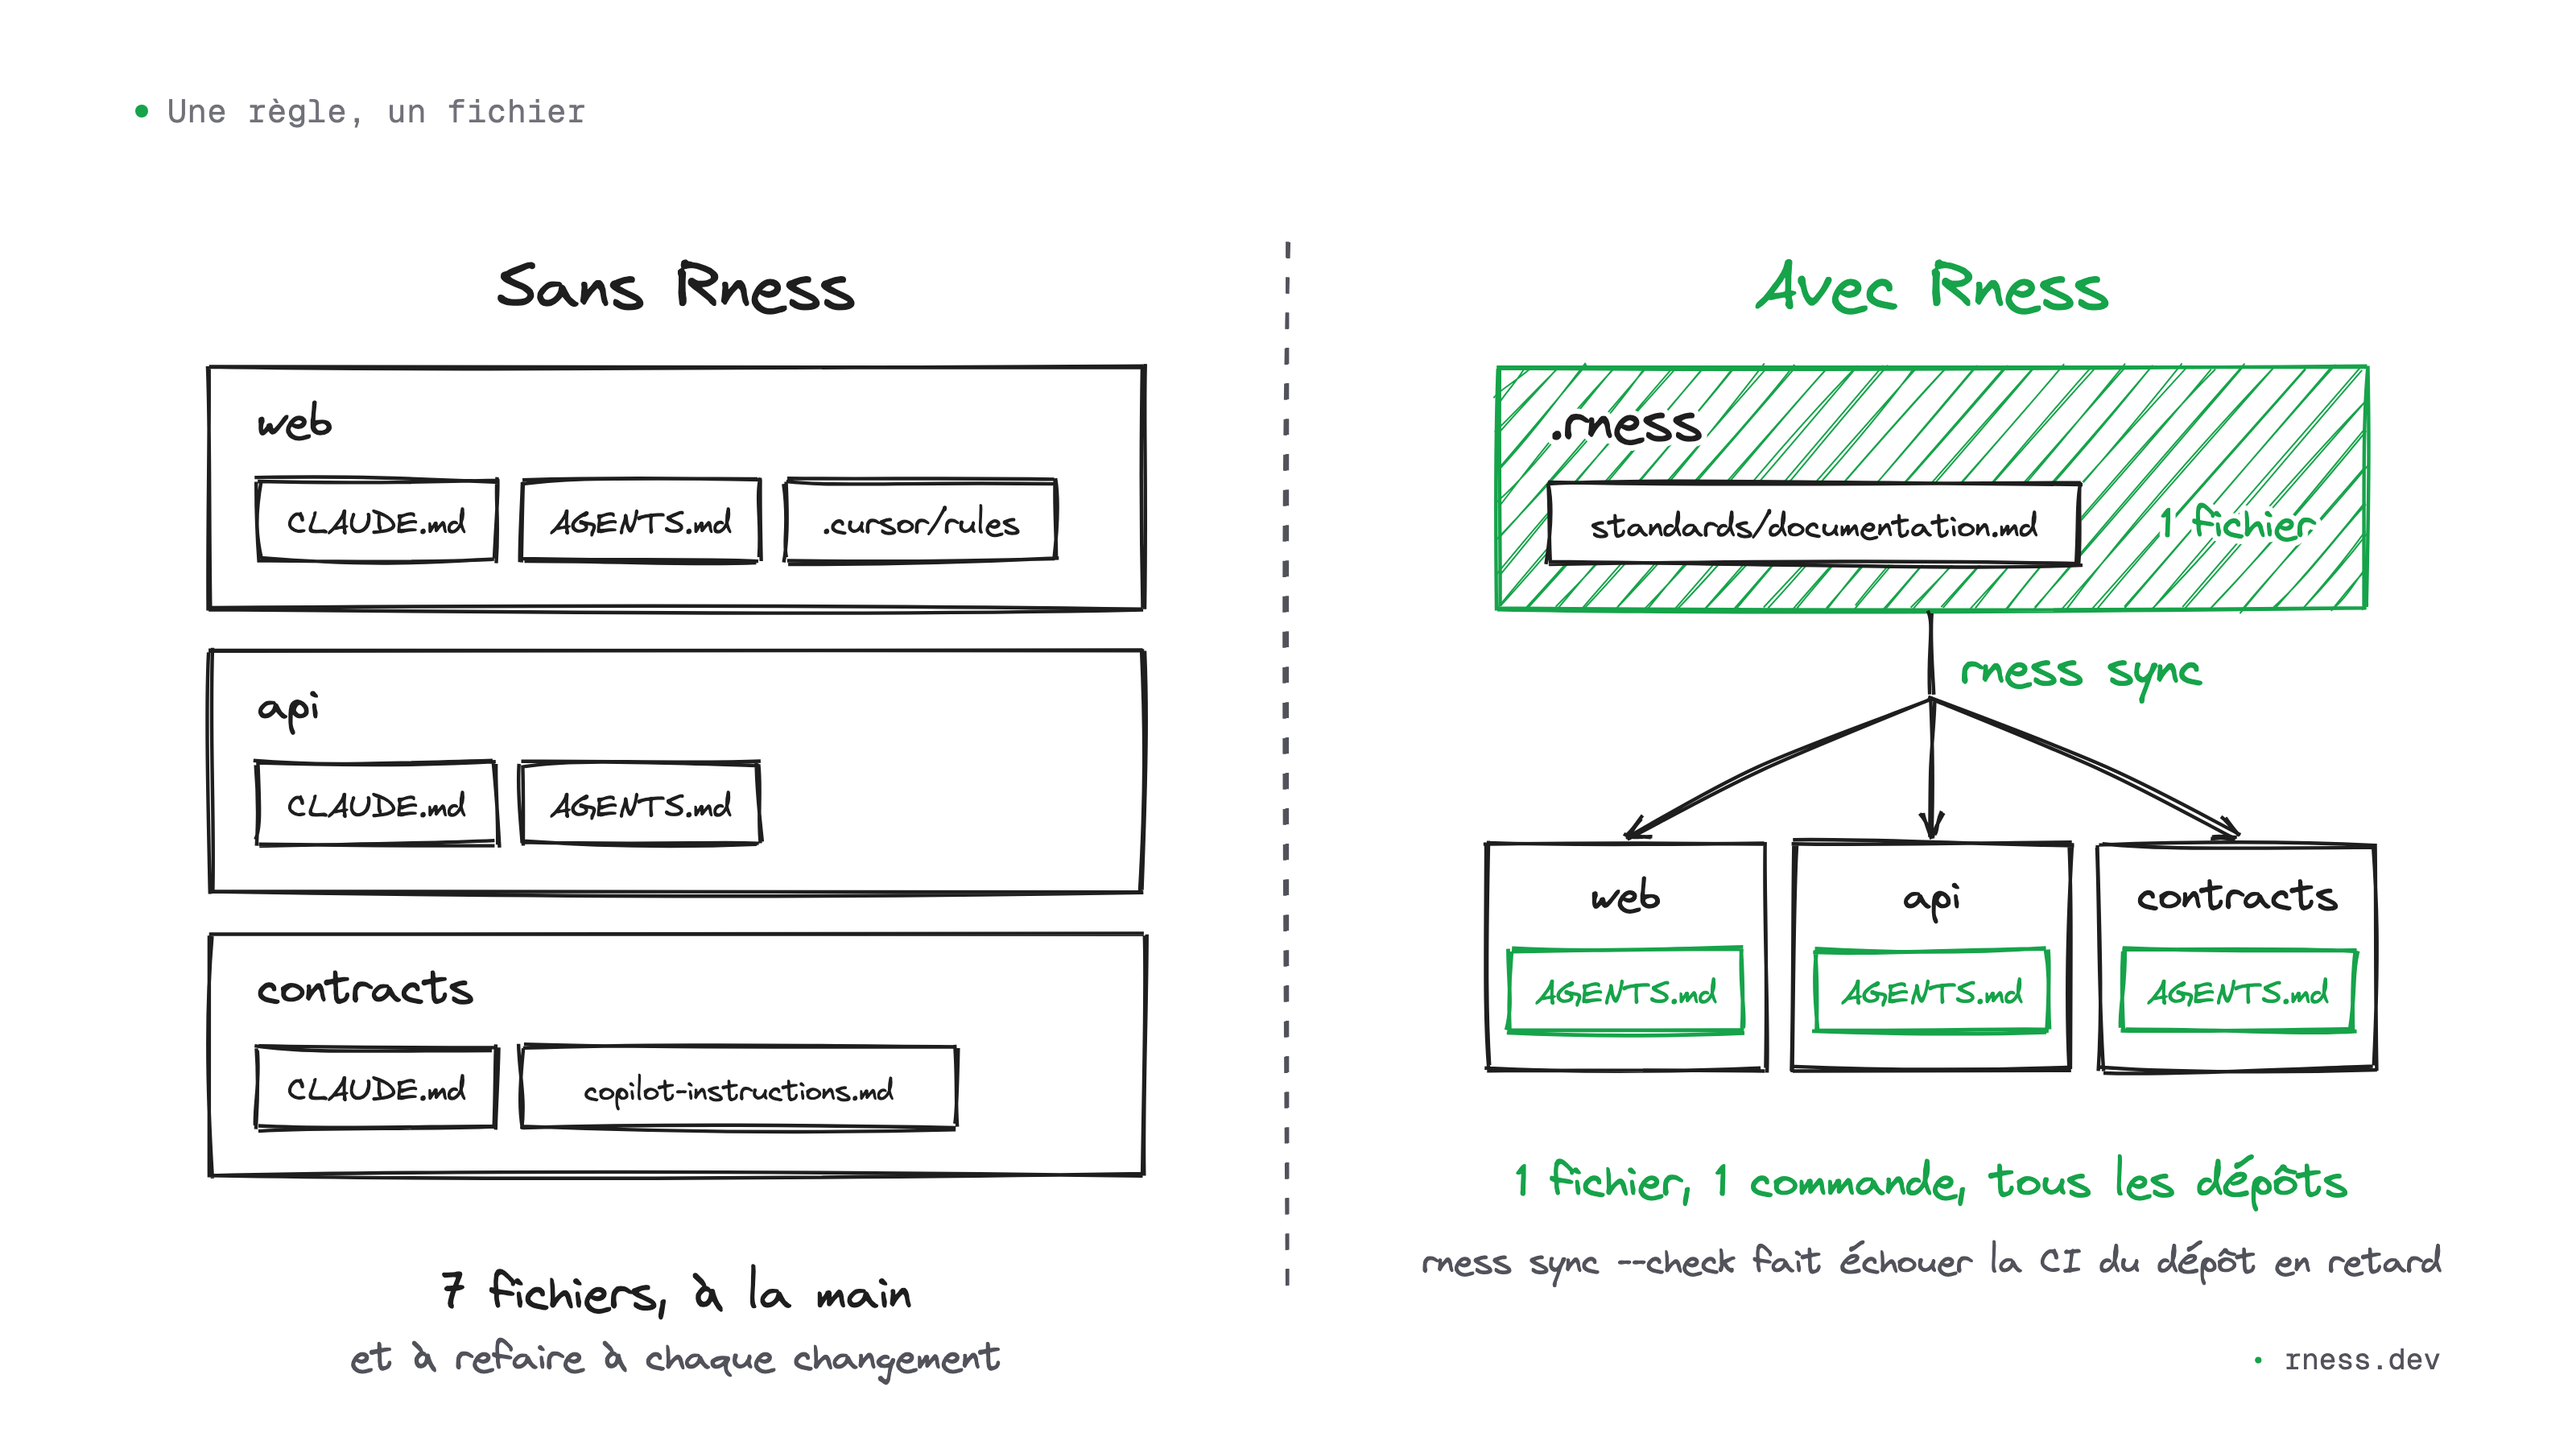
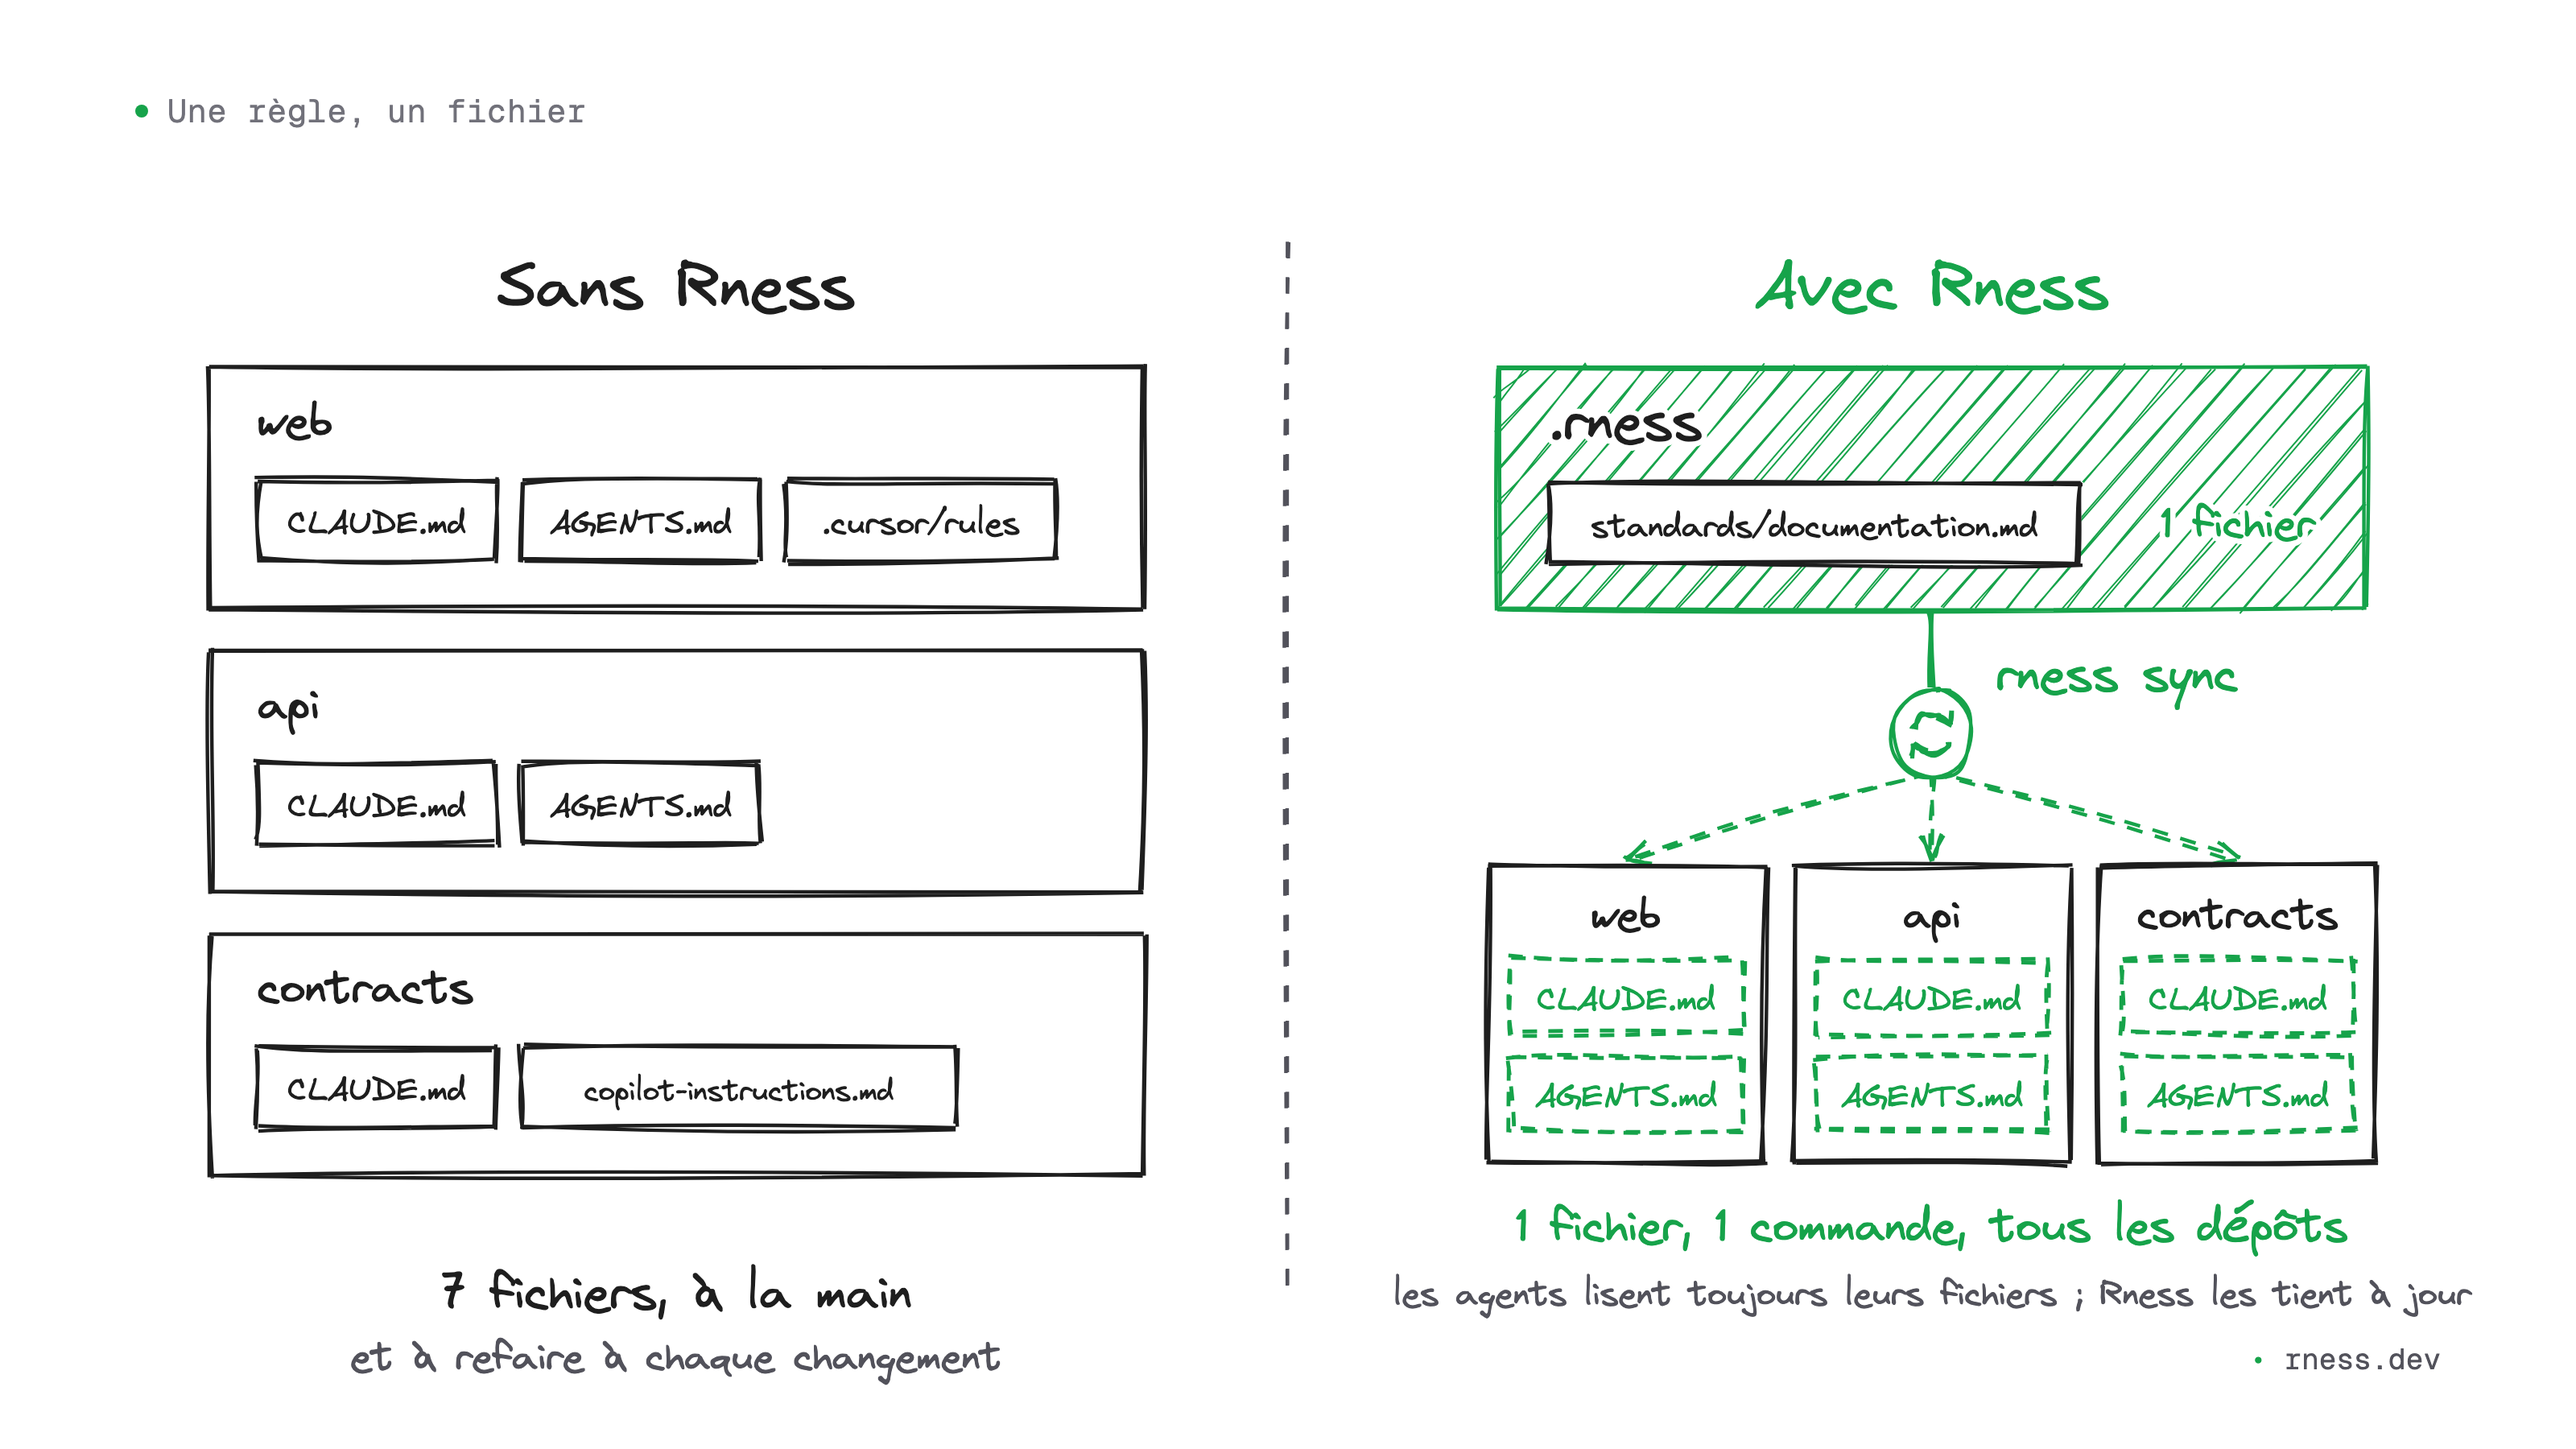
docs: the one-rule figure keeps each agent's files, kept in sync by Rness

Changed region(s): [[0.5312, 0.4356, 0.9688, 0.9022]]

diff --git a/articles/gouverner-les-agents-de-code.md b/articles/gouverner-les-agents-de-code.md
@@ -22,7 +22,7 @@ Dans une équipe qui code avec des agents, un dépôt a un `CLAUDE.md`, un `AGEN
 
 Poser une règle pour tous les agents d'une organisation, c'est d'abord un compte de fichiers. Tenue à la main, une règle va dans au moins deux fichiers par dépôt, `CLAUDE.md` et `AGENTS.md`, et davantage dès que `.cursor/rules` ou les instructions de Copilot s'en mêlent. Trois dépôts, c'est six fichiers au minimum ; quarante dépôts, quatre-vingts. Quand la règle change, on recommence, et rien ne signale la copie oubliée.
 
-![Sans Rness, trois dépôts portent sept fichiers d'agents tenus à la main : CLAUDE.md, AGENTS.md, .cursor/rules, copilot-instructions.md. Avec Rness, un fichier dans .rness/standards, et rness sync écrit le bloc AGENTS.md de chaque dépôt.](./img/une-regle-un-fichier.png)
+![Sans Rness, trois dépôts portent sept fichiers d'agents tenus à la main. Avec Rness, la règle vit dans un fichier de .rness, et rness sync tient à jour le CLAUDE.md et le AGENTS.md de chaque dépôt ; les agents lisent toujours leurs propres fichiers.](./img/une-regle-un-fichier.png)
 
 Avec Rness, la règle s'écrit une fois, dans un standard du dépôt `.rness`. La commande `rness sync` réécrit à partir de lui un bloc généré dans le `AGENTS.md` de chaque dépôt, et chaque `CLAUDE.md` pointe déjà vers ce bloc. Voici le haut du bloc dans le dépôt de mon site :
 
